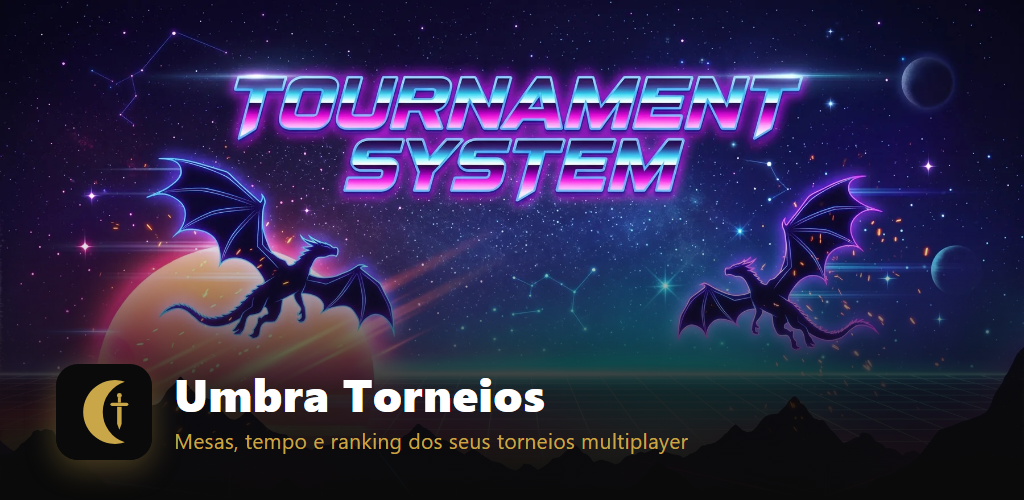
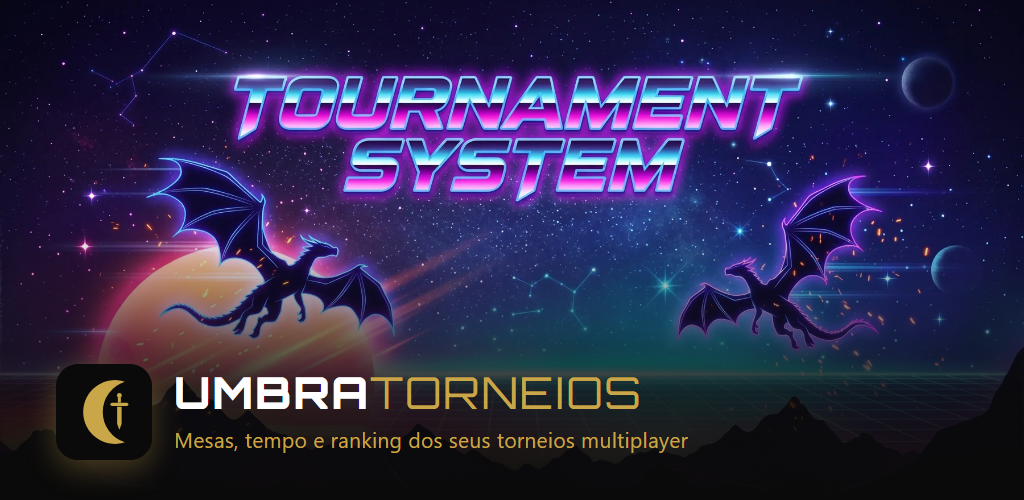
feat(brand): one-line Orbitron wordmark across the app and emails
Add the EscritaUmbra wordmark (bold white UMBRA, light gold product name)
to the menu bar and the sign-in window, an email header image used by all
six Supabase templates, and an updated Play Store feature graphic.

Changed region(s): [[0.1562, 0.75, 0.625, 0.84], [0.1562, 0.87, 0.6875, 0.9]]

diff --git a/src/components/TelaTorneios.tsx b/src/components/TelaTorneios.tsx
@@ -13,7 +13,7 @@ import { calcularMetricas, metricasRecentes } from "../core/metricas";
 import { ranking } from "../core/resultados";
 import { podeEditarTorneios, torneioParado, torneiosVisiveis } from "../core/visibilidade";
 import { BANNER_IMAGE } from "../banner-image";
-import { IconeDecks } from "./ui/LogoUmbra";
+import { EscritaUmbra, IconeDecks } from "./ui/LogoUmbra";
 import { SegredoUmbra } from "./ui/SegredoUmbra";
 import { IconeAnalytics, IconeBaixar, IconeCaixa, IconeDado, IconeDocumento, IconeLapis, IconeLixeira, IconePasta, IconeUsuarios } from "./ui/Icones";
 import { SimboloMana, type CorMana } from "./ui/SimboloMana";
@@ -181,7 +181,7 @@ export function TelaTorneios({ onPedirLogin, onVincularNome }: { onPedirLogin?: 
           }}
         >
           <span className="flex items-center pl-2 pr-1"><SegredoUmbra tamanho={26} /></span>
-          <span className="md:hidden flex-1 min-w-0 truncate font-semibold" style={{ color: "var(--text-strong)" }}>Torneios</span>
+          <span className="flex-1 md:flex-none min-w-0 truncate pr-2"><EscritaUmbra tamanho={15} /></span>
 
           {/* CTA principal — só admin vê */}
           {podeEditar && (

diff --git a/supabase/emails/trocar-email.html b/supabase/emails/trocar-email.html
@@ -4,9 +4,8 @@
   <table role="presentation" width="100%" cellpadding="0" cellspacing="0" style="background:#f4f1ea;padding:24px 12px;">
     <tr><td align="center">
       <table role="presentation" width="100%" cellpadding="0" cellspacing="0" style="max-width:520px;background:#ffffff;border-radius:16px;overflow:hidden;">
-        <tr><td align="center" style="background:#0a0a0a;padding:24px;">
-          <img src="https://torneios.umbraarena.com.br/icon-192.png" width="64" height="64" alt="Umbra Torneios" style="display:block;border-radius:14px;">
-          <div style="color:#c9a648;font-size:13px;letter-spacing:3px;margin-top:12px;">UMBRA TORNEIOS</div>
+        <tr><td align="center" style="background:#0a0a0a;padding:8px 12px;">
+          <img src="https://torneios.umbraarena.com.br/marca/cabecalho-email.png" width="300" height="60" alt="Umbra Torneios" style="display:block;max-width:100%;height:auto;">
         </td></tr>
         <tr><td style="padding:28px 28px 8px;">
           <h1 style="margin:0 0 12px;font-size:20px;color:#141414;">Confirme o novo e-mail</h1>

diff --git a/supabase/emails/confirmar-cadastro.html b/supabase/emails/confirmar-cadastro.html
@@ -4,9 +4,8 @@
   <table role="presentation" width="100%" cellpadding="0" cellspacing="0" style="background:#f4f1ea;padding:24px 12px;">
     <tr><td align="center">
       <table role="presentation" width="100%" cellpadding="0" cellspacing="0" style="max-width:520px;background:#ffffff;border-radius:16px;overflow:hidden;">
-        <tr><td align="center" style="background:#0a0a0a;padding:24px;">
-          <img src="https://torneios.umbraarena.com.br/icon-192.png" width="64" height="64" alt="Umbra Torneios" style="display:block;border-radius:14px;">
-          <div style="color:#c9a648;font-size:13px;letter-spacing:3px;margin-top:12px;">UMBRA TORNEIOS</div>
+        <tr><td align="center" style="background:#0a0a0a;padding:8px 12px;">
+          <img src="https://torneios.umbraarena.com.br/marca/cabecalho-email.png" width="300" height="60" alt="Umbra Torneios" style="display:block;max-width:100%;height:auto;">
         </td></tr>
         <tr><td style="padding:28px 28px 8px;">
           <h1 style="margin:0 0 12px;font-size:20px;color:#141414;">Confirme seu cadastro</h1>

diff --git a/supabase/emails/reautenticacao.html b/supabase/emails/reautenticacao.html
@@ -4,9 +4,8 @@
   <table role="presentation" width="100%" cellpadding="0" cellspacing="0" style="background:#f4f1ea;padding:24px 12px;">
     <tr><td align="center">
       <table role="presentation" width="100%" cellpadding="0" cellspacing="0" style="max-width:520px;background:#ffffff;border-radius:16px;overflow:hidden;">
-        <tr><td align="center" style="background:#0a0a0a;padding:24px;">
-          <img src="https://torneios.umbraarena.com.br/icon-192.png" width="64" height="64" alt="Umbra Torneios" style="display:block;border-radius:14px;">
-          <div style="color:#c9a648;font-size:13px;letter-spacing:3px;margin-top:12px;">UMBRA TORNEIOS</div>
+        <tr><td align="center" style="background:#0a0a0a;padding:8px 12px;">
+          <img src="https://torneios.umbraarena.com.br/marca/cabecalho-email.png" width="300" height="60" alt="Umbra Torneios" style="display:block;max-width:100%;height:auto;">
         </td></tr>
         <tr><td style="padding:28px 28px 8px;">
           <h1 style="margin:0 0 12px;font-size:20px;color:#141414;">Confirme que é você</h1>

diff --git a/supabase/emails/nova-senha.html b/supabase/emails/nova-senha.html
@@ -4,9 +4,8 @@
   <table role="presentation" width="100%" cellpadding="0" cellspacing="0" style="background:#f4f1ea;padding:24px 12px;">
     <tr><td align="center">
       <table role="presentation" width="100%" cellpadding="0" cellspacing="0" style="max-width:520px;background:#ffffff;border-radius:16px;overflow:hidden;">
-        <tr><td align="center" style="background:#0a0a0a;padding:24px;">
-          <img src="https://torneios.umbraarena.com.br/icon-192.png" width="64" height="64" alt="Umbra Torneios" style="display:block;border-radius:14px;">
-          <div style="color:#c9a648;font-size:13px;letter-spacing:3px;margin-top:12px;">UMBRA TORNEIOS</div>
+        <tr><td align="center" style="background:#0a0a0a;padding:8px 12px;">
+          <img src="https://torneios.umbraarena.com.br/marca/cabecalho-email.png" width="300" height="60" alt="Umbra Torneios" style="display:block;max-width:100%;height:auto;">
         </td></tr>
         <tr><td style="padding:28px 28px 8px;">
           <h1 style="margin:0 0 12px;font-size:20px;color:#141414;">Crie uma nova senha</h1>

diff --git a/supabase/emails/convite.html b/supabase/emails/convite.html
@@ -4,9 +4,8 @@
   <table role="presentation" width="100%" cellpadding="0" cellspacing="0" style="background:#f4f1ea;padding:24px 12px;">
     <tr><td align="center">
       <table role="presentation" width="100%" cellpadding="0" cellspacing="0" style="max-width:520px;background:#ffffff;border-radius:16px;overflow:hidden;">
-        <tr><td align="center" style="background:#0a0a0a;padding:24px;">
-          <img src="https://torneios.umbraarena.com.br/icon-192.png" width="64" height="64" alt="Umbra Torneios" style="display:block;border-radius:14px;">
-          <div style="color:#c9a648;font-size:13px;letter-spacing:3px;margin-top:12px;">UMBRA TORNEIOS</div>
+        <tr><td align="center" style="background:#0a0a0a;padding:8px 12px;">
+          <img src="https://torneios.umbraarena.com.br/marca/cabecalho-email.png" width="300" height="60" alt="Umbra Torneios" style="display:block;max-width:100%;height:auto;">
         </td></tr>
         <tr><td style="padding:28px 28px 8px;">
           <h1 style="margin:0 0 12px;font-size:20px;color:#141414;">Seu convite chegou</h1>

diff --git a/supabase/emails/link-de-acesso.html b/supabase/emails/link-de-acesso.html
@@ -4,9 +4,8 @@
   <table role="presentation" width="100%" cellpadding="0" cellspacing="0" style="background:#f4f1ea;padding:24px 12px;">
     <tr><td align="center">
       <table role="presentation" width="100%" cellpadding="0" cellspacing="0" style="max-width:520px;background:#ffffff;border-radius:16px;overflow:hidden;">
-        <tr><td align="center" style="background:#0a0a0a;padding:24px;">
-          <img src="https://torneios.umbraarena.com.br/icon-192.png" width="64" height="64" alt="Umbra Torneios" style="display:block;border-radius:14px;">
-          <div style="color:#c9a648;font-size:13px;letter-spacing:3px;margin-top:12px;">UMBRA TORNEIOS</div>
+        <tr><td align="center" style="background:#0a0a0a;padding:8px 12px;">
+          <img src="https://torneios.umbraarena.com.br/marca/cabecalho-email.png" width="300" height="60" alt="Umbra Torneios" style="display:block;max-width:100%;height:auto;">
         </td></tr>
         <tr><td style="padding:28px 28px 8px;">
           <h1 style="margin:0 0 12px;font-size:20px;color:#141414;">Seu link de acesso</h1>

diff --git a/src/components/ui/LogoUmbra.tsx b/src/components/ui/LogoUmbra.tsx
@@ -43,3 +43,19 @@ export function SimboloUmbra({ tamanho = 24 }: { tamanho?: number }) {
     </svg>
   );
 }
+
+// Escrita do logo: UMBRA forte em branco + o produto leve em dourado, numa linha, na fonte Orbitron.
+// Cada produto da família troca só a segunda palavra (TORNEIOS, BREW, INSIGHTS...).
+export function EscritaUmbra({ produto = "TORNEIOS", tamanho = 16 }: { produto?: string; tamanho?: number }) {
+  return (
+    <span
+      className="inline-flex items-baseline whitespace-nowrap leading-none"
+      style={{ fontFamily: "var(--font-marca)", fontSize: tamanho, letterSpacing: "0.04em" }}
+      aria-label={`Umbra ${produto.toLowerCase()}`}
+      role="img"
+    >
+      <span style={{ color: "var(--text-strong)", fontWeight: 800 }}>UMBRA</span>
+      <span style={{ color: "var(--brand-1)", fontWeight: 400 }}>{produto}</span>
+    </span>
+  );
+}

diff --git a/src/components/TelaLogin.tsx b/src/components/TelaLogin.tsx
@@ -1,5 +1,6 @@
 import { useState } from "react";
 import { entrar, registrar } from "../core/auth";
+import { EscritaUmbra, SimboloUmbra } from "./ui/LogoUmbra";
 
 interface Props {
   aberta: boolean;
@@ -58,6 +59,11 @@ export function TelaLogin({ aberta, onFechar, onSucesso }: Props) {
           boxShadow: "0 30px 80px -20px rgba(0,0,0,0.9), inset 0 1px 0 rgba(255,255,255,0.05)",
         }}
       >
+        <div className="flex items-center justify-center gap-2 mb-5">
+          <SimboloUmbra tamanho={30} />
+          <EscritaUmbra tamanho={17} />
+        </div>
+
         {/* Abas */}
         <div className="flex gap-2 mb-6 p-1 rounded-lg" style={{ background: "var(--page-1)" }}>
           <button

diff --git a/index.html b/index.html
@@ -9,7 +9,7 @@
     <title>Umbra Torneios</title>
     <link rel="preconnect" href="https://fonts.googleapis.com">
     <link rel="preconnect" href="https://fonts.gstatic.com" crossorigin>
-    <link href="https://fonts.googleapis.com/css2?family=Sora:wght@400;500;600;700&display=swap" rel="stylesheet">
+    <link href="https://fonts.googleapis.com/css2?family=Orbitron:wght@400;800&family=Sora:wght@400;500;600;700&display=swap" rel="stylesheet">
   </head>
   <body>
     <div id="root"></div>

diff --git a/src/index.css b/src/index.css
@@ -42,6 +42,7 @@
   --shadow: 0 24px 60px -20px rgba(0,0,0,.70);
   --lift: 0 16px 48px -16px rgba(201,166,72,.25);
   --font-ds: "Sora", "Segoe UI", system-ui, -apple-system, sans-serif;
+  --font-marca: "Orbitron", "Sora", "Segoe UI", sans-serif; /* só na escrita do logo */
   --card-fundo: rgba(20,20,20,0.9);
   --r: 16px;
   --r-m: 12px;
